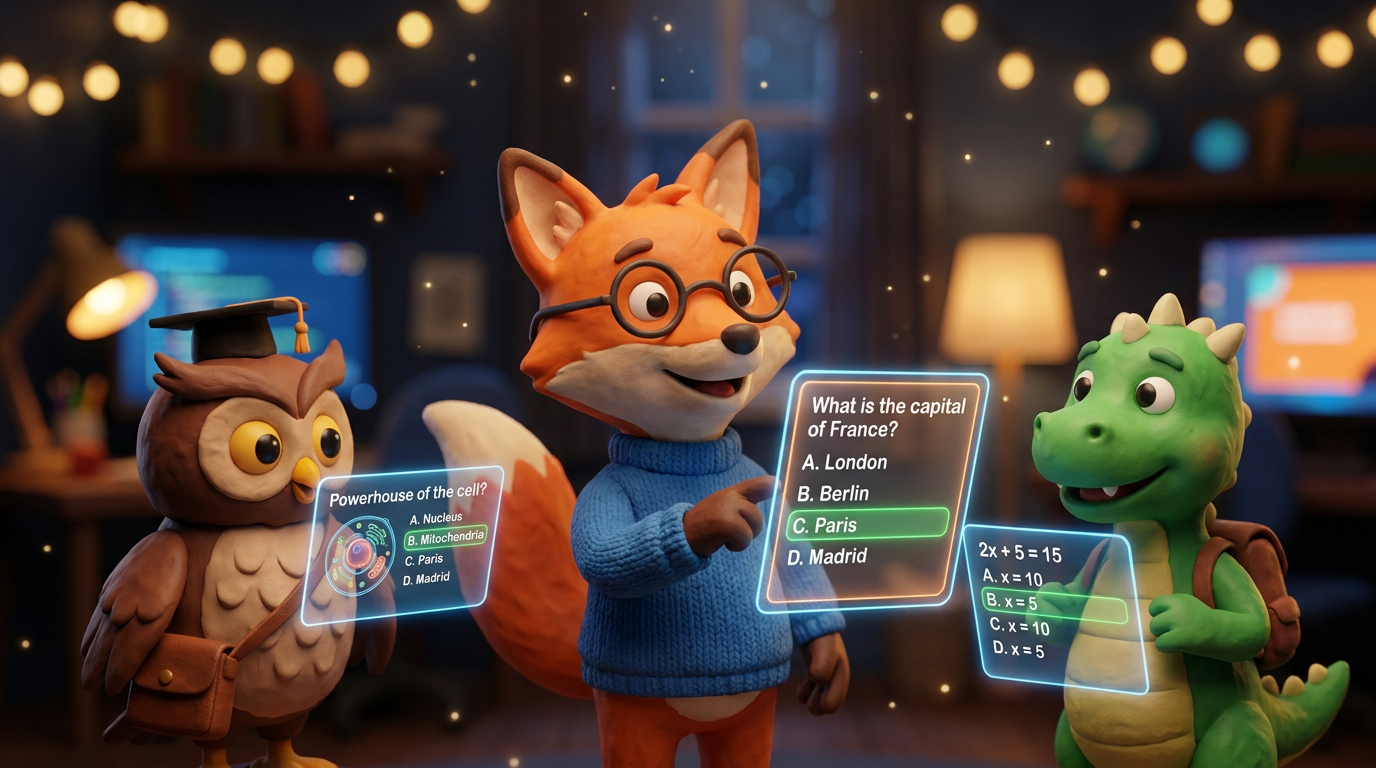
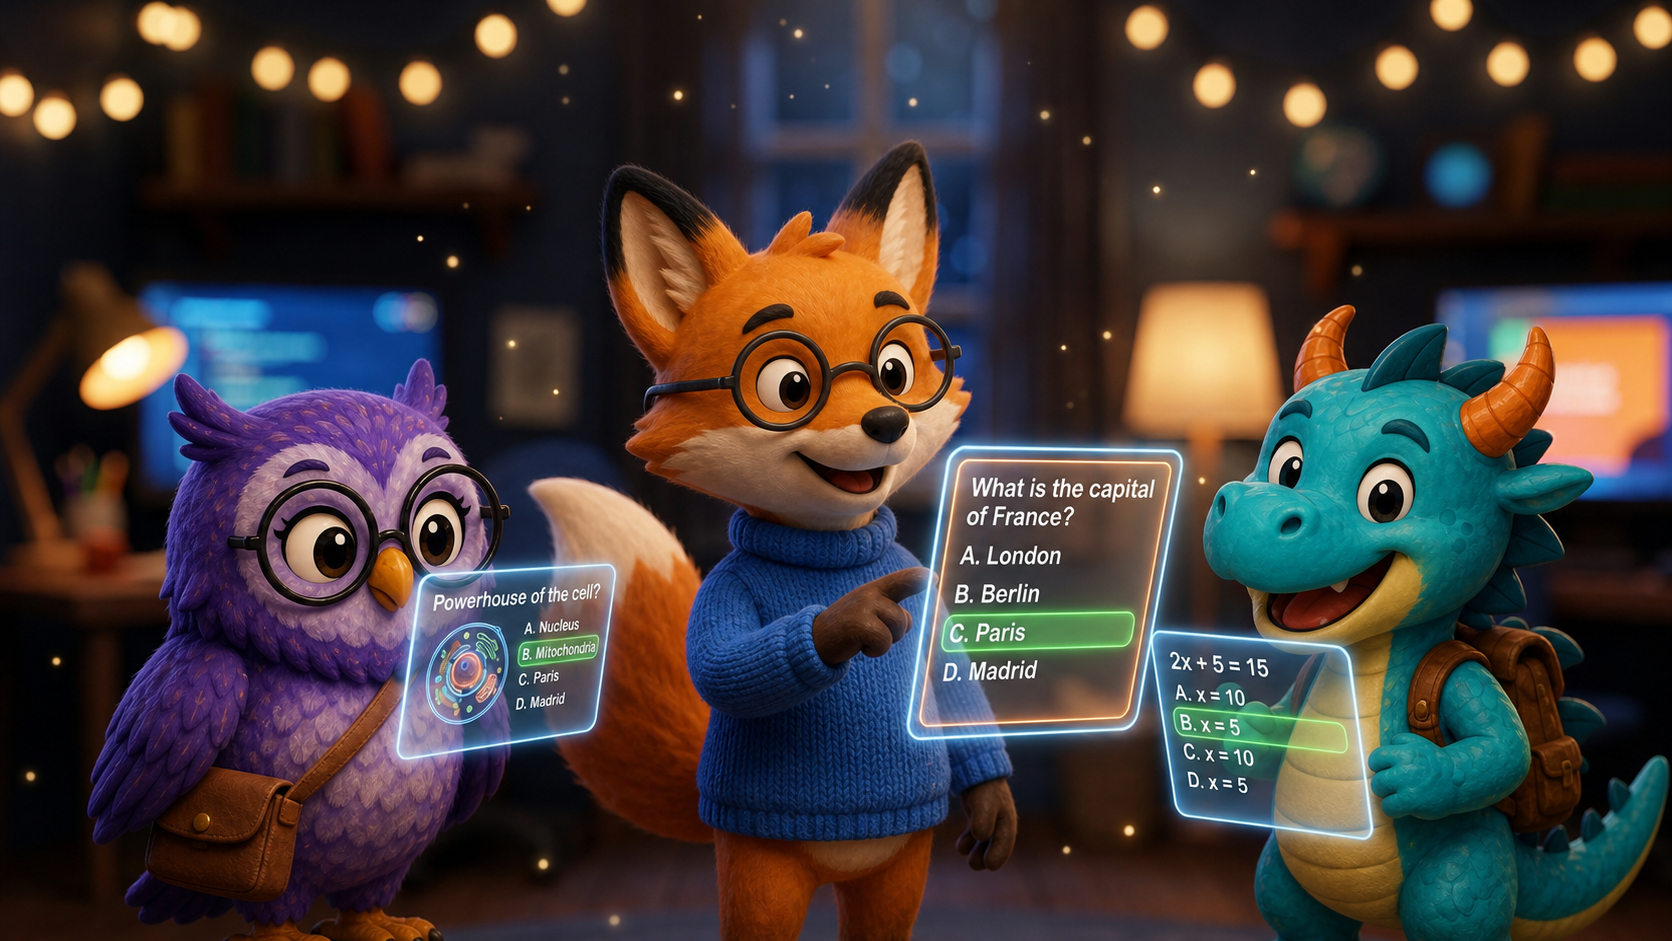
feat: consolidate mascot marketing artwork
- replace the quiz marketing image with the new realistic mascots

- use the canonical marketing image as the social preview source

- remove the duplicate mascot group asset

- update CC0 licensing and AI provenance documentation

diff --git a/assets/build_brand_assets.py b/assets/build_brand_assets.py
@@ -1,8 +1,10 @@
 """Build production-ready FoxQuiz mascot and social assets.
 
-The high-resolution, transparent masters live in ``assets/brand_sources``.
-Running this script creates deterministic web-sized exports under
-``app/static/assets`` without altering the source artwork.
+The high-resolution, transparent mascot masters live in
+``assets/brand_sources``. The social preview uses the canonical marketing image
+at ``assets/foxquiz_mascots_performing_quiz.png``. Running this script creates
+deterministic web-sized exports under ``app/static/assets`` without altering
+the source artwork.
 """
 
 from __future__ import annotations
@@ -14,6 +16,7 @@ from PIL import Image, ImageDraw, ImageFont, ImageOps
 
 PROJECT_DIR = Path(__file__).resolve().parent.parent
 DEFAULT_SOURCE_DIR = PROJECT_DIR / "assets" / "brand_sources"
+DEFAULT_SOCIAL_SOURCE = PROJECT_DIR / "assets" / "foxquiz_mascots_performing_quiz.png"
 DEFAULT_OUTPUT_DIR = PROJECT_DIR / "app" / "static" / "assets"
 MASCOTS = ("felix", "olivia", "dino")
 VARIANTS = ("face", "full")
@@ -101,8 +104,7 @@ def _build_icons(felix_face: Image.Image, output_dir: Path) -> None:
     )
 
 
-def _build_social_preview(source_dir: Path, output_dir: Path) -> None:
-    source_path = source_dir / "foxquiz-mascots-group.png"
+def _build_social_preview(source_path: Path, output_dir: Path) -> None:
     with Image.open(source_path) as source:
         preview = ImageOps.fit(
             source.convert("RGBA"),
@@ -135,19 +137,24 @@ def _build_social_preview(source_dir: Path, output_dir: Path) -> None:
     )
 
 
-def build(source_dir: Path, output_dir: Path) -> None:
+def build(source_dir: Path, output_dir: Path, social_source: Path) -> None:
     output_dir.mkdir(parents=True, exist_ok=True)
     felix_face = _build_mascot_exports(source_dir, output_dir)
     _build_icons(felix_face, output_dir)
-    _build_social_preview(source_dir, output_dir)
+    _build_social_preview(social_source, output_dir)
 
 
 def main() -> None:
     parser = argparse.ArgumentParser(description=__doc__)
     parser.add_argument("--source-dir", type=Path, default=DEFAULT_SOURCE_DIR)
+    parser.add_argument("--social-source", type=Path, default=DEFAULT_SOCIAL_SOURCE)
     parser.add_argument("--output-dir", type=Path, default=DEFAULT_OUTPUT_DIR)
     args = parser.parse_args()
-    build(args.source_dir.resolve(), args.output_dir.resolve())
+    build(
+        args.source_dir.resolve(),
+        args.output_dir.resolve(),
+        args.social_source.resolve(),
+    )
 
 
 if __name__ == "__main__":

diff --git a/assets/brand_sources/README.md b/assets/brand_sources/README.md
@@ -13,6 +13,7 @@ waived.
 This CC0 dedication applies only to:
 
 - `assets/brand_sources/**`
+- `assets/foxquiz_mascots_performing_quiz.png`
 - `app/static/assets/mascots/**`
 - `app/static/assets/favicon.ico`
 - `app/static/assets/favicon-16x16.png`
@@ -30,7 +31,7 @@ All other repository content remains under the license stated in the top-level
 
 These assets were created on 2026-08-10 with OpenAI's image-generation tooling
 from original FoxQuiz character directions. The selected direction was
-"Variation 3": a warm storybook-explorer style for students in grades 5?12.
+"Variation 3": a warm storybook-explorer style for students in grades 5–12.
 
 The design brief required three original characters without tracing or imitating
 an operating-system emoji, vendor emoji set, existing mascot, brand character,
@@ -44,6 +45,12 @@ or named artist:
 Human contribution included defining the characters and constraints, selecting
 Variation 3, reviewing the generated designs, directing the individual
 face/full-body and group compositions, and approving their use in FoxQuiz.
+On 2026-08-11, `assets/foxquiz_mascots_performing_quiz.png` was regenerated
+with OpenAI's image-generation tooling by combining the established Felix,
+Olivia, and Dino character designs with the composition, study-room background,
+and floating quiz panels of the previous FoxQuiz marketing artwork. Human
+direction and review preserved the marketing scene while adapting the three
+characters to its realistic 3D style.
 Production processing removed flat chroma-key backgrounds, cleaned and
 despilled the edges, created transparent square exports, resized browser/mobile
 variants, and added the exact FoxQuiz wordmark to the social preview.
